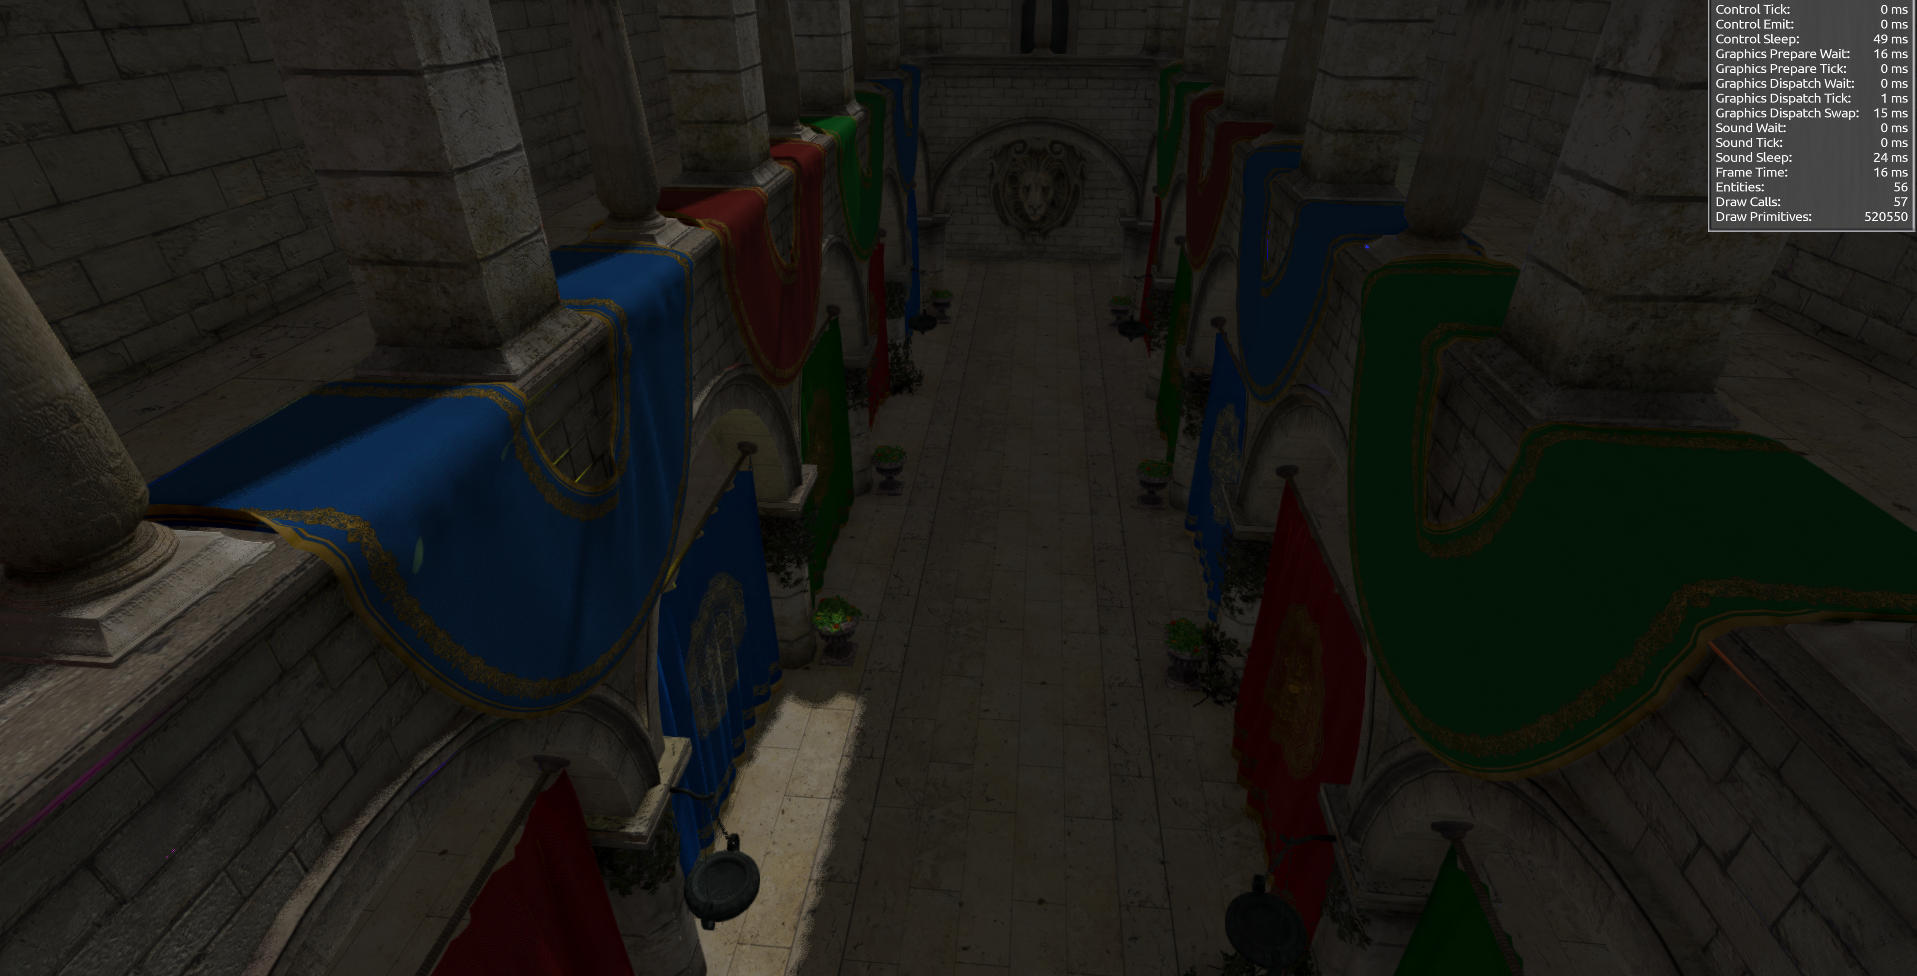
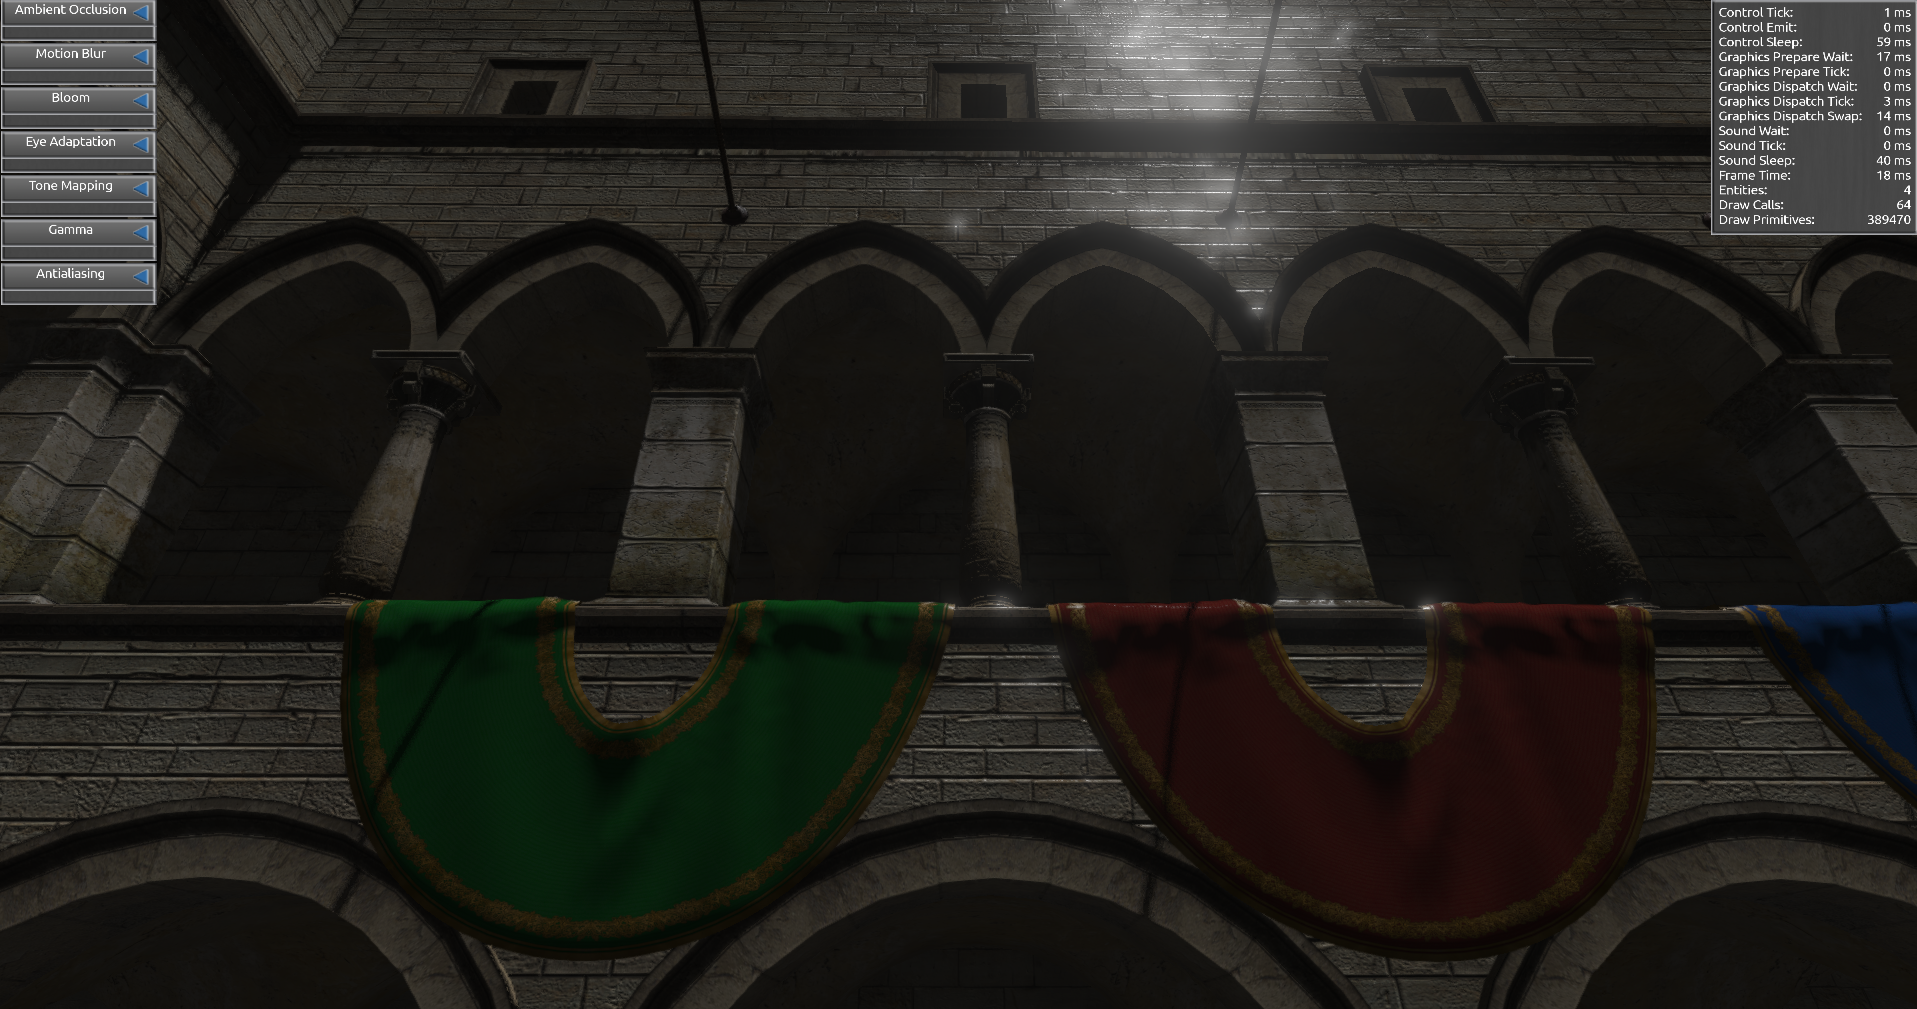
update engine (improved bloom); update screenshots

diff --git a/sources/engine/cameraEffects.cpp b/sources/engine/cameraEffects.cpp
@@ -52,12 +52,6 @@ bool update()
 			if (in.valid)
 				cam.ssao.worldRadius = in.value.toFloat();
 		}
-		{ // blur radius
-			entityClass *e = ents->get(3);
-			GUI_GET_COMPONENT(input, in, e);
-			if (in.valid)
-				cam.ssao.blurRadius = in.value.toFloat();
-		}
 		{ // strength
 			entityClass *e = ents->get(4);
 			GUI_GET_COMPONENT(input, in, e);
@@ -103,12 +97,6 @@ bool update()
 			GUI_GET_COMPONENT(input, in, e);
 			if (in.valid)
 				cam.bloom.threshold = in.value.toFloat();
-		}
-		{ // blur radius
-			entityClass *e = ents->get(23);
-			GUI_GET_COMPONENT(input, in, e);
-			if (in.valid)
-				cam.bloom.blurRadius = in.value.toFloat();
 		}
 		{ // blur passes
 			entityClass *e = ents->get(24);
@@ -269,7 +257,7 @@ void initializeGui()
 		}
 		sint32 childIndex = 1;
 		genInput(table, childIndex, 1, "World Radius:", 0.2, 5, 0.05, cameraEffectsStruct().ssao.worldRadius);
-		genInput(table, childIndex, 1, "Blur Radius:", 0.3, 3, 0.05, cameraEffectsStruct().ssao.blurRadius);
+		childIndex += 2;
 		genInput(table, childIndex, 1, "Strength:", 0.2, 5, 0.2, cameraEffectsStruct().ssao.strength);
 		genInput(table, childIndex, 1, "Bias:", 0, 1, 0.01, cameraEffectsStruct().ssao.bias);
 		genInput(table, childIndex, 1, "Power:", 0.1, 1, 0.02, cameraEffectsStruct().ssao.power);
@@ -339,7 +327,7 @@ void initializeGui()
 		}
 		sint32 childIndex = 1;
 		genInput(table, childIndex, 21, "Threshold:", 0, 5, 0.01, cameraEffectsStruct().bloom.threshold);
-		genInput(table, childIndex, 21, "Blur Radius:", 0.3, 3, 0.05, cameraEffectsStruct().bloom.blurRadius);
+		childIndex += 2;
 		{
 			entityClass *e = genInput(table, childIndex, 21, "Blur Passes:", 0, 0, 0, 0);
 			GUI_GET_COMPONENT(input, in, e);

diff --git a/sources/engine/renderToTexture.cpp b/sources/engine/renderToTexture.cpp
@@ -33,9 +33,10 @@ bool windowClose()
 bool graphicsInitialize()
 {
 	fabScreenTex = newTexture();
-	fabScreenTex->image2d(1000, 600, GL_RGB16F);
-	fabScreenTex->filters(GL_LINEAR, GL_LINEAR, 0);
+	fabScreenTex->image2d(1920, 1080, GL_RGB16F);
+	fabScreenTex->filters(GL_LINEAR, GL_LINEAR, 16);
 	fabScreenTex->wraps(GL_CLAMP_TO_EDGE, GL_CLAMP_TO_EDGE);
+	fabScreenTex->setDebugName("fabScreenTex");
 	assets()->set<assetSchemeIndexTexture>(screenName, fabScreenTex.get());
 	{
 		entityClass *e = entities()->get(4);
@@ -114,7 +115,7 @@ int main(int argc, char *args[])
 			c.cameraOrder = 3;
 			c.renderMask = 1;
 			c.effects = cameraEffectsFlags::CombinedPass;
-			c.ssao.worldRadius = 0.3;
+			c.ssao.worldRadius = 0.05;
 			ENGINE_GET_COMPONENT(render, r, e);
 			r.object = hashString("cage-tests/room/eye.obj");
 			r.renderMask = 2;
@@ -144,14 +145,15 @@ int main(int argc, char *args[])
 			r.object = hashString("cage-tests/room/camera.obj?camera");
 			r.renderMask = 1;
 			ENGINE_GET_COMPONENT(camera, c, e);
-			c.ambientLight = vec3(1, 1, 1) * 0.7;
+			c.ambientLight = vec3(0.7);
 			c.near = 0.2;
 			c.far = 100;
 			c.cameraOrder = 2;
 			c.renderMask = 2;
 			c.effects = cameraEffectsFlags::GeometryPass;
-			c.ssao.worldRadius = 0.3;
+			c.ssao.worldRadius = 0.05;
 		}
+
 		holder<cameraControllerClass> cameraController = newCameraController(eye);
 		cameraController->mouseButton = mouseButtonsFlags::Left;
 		cameraController->movementSpeed = 0.1;

diff --git a/README.md b/README.md
@@ -9,6 +9,7 @@ Example scenes and test applications made with Cage. See https://github.com/ucpu
 ![5](screenshots/5.png?raw=true)
 ![6](screenshots/6.png?raw=true)
 ![7](screenshots/7.png?raw=true)
+![8](screenshots/8.png?raw=true)
 
 # Building
 
